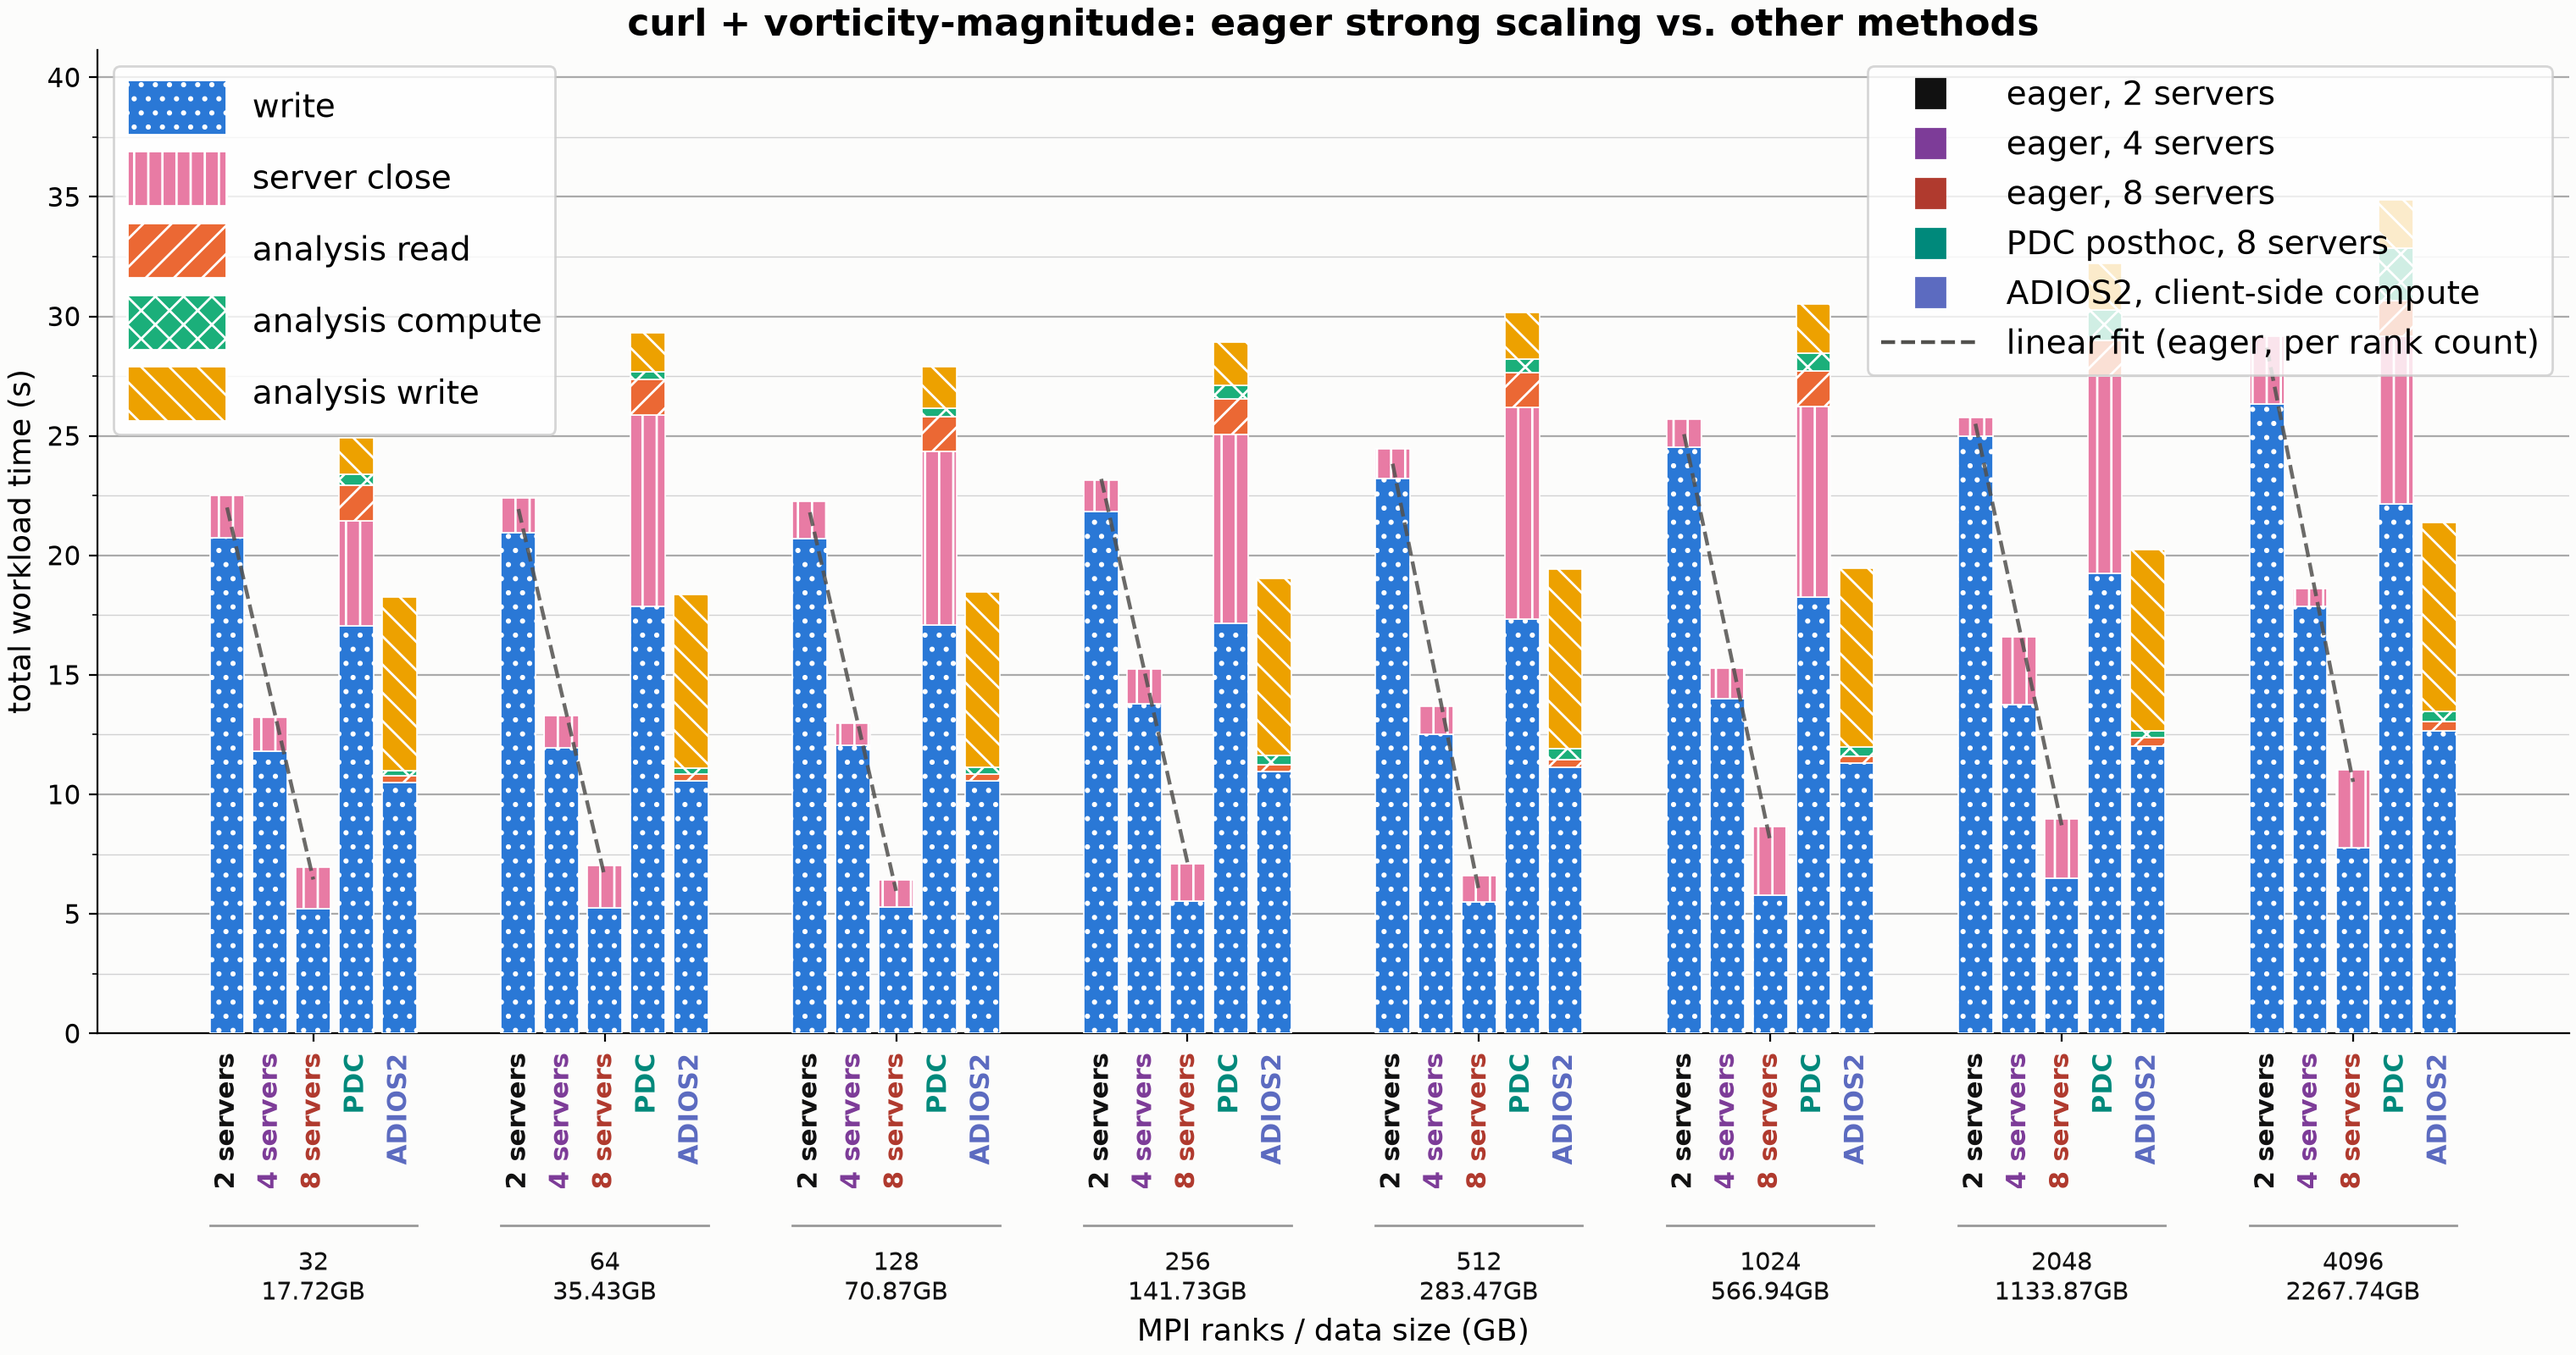
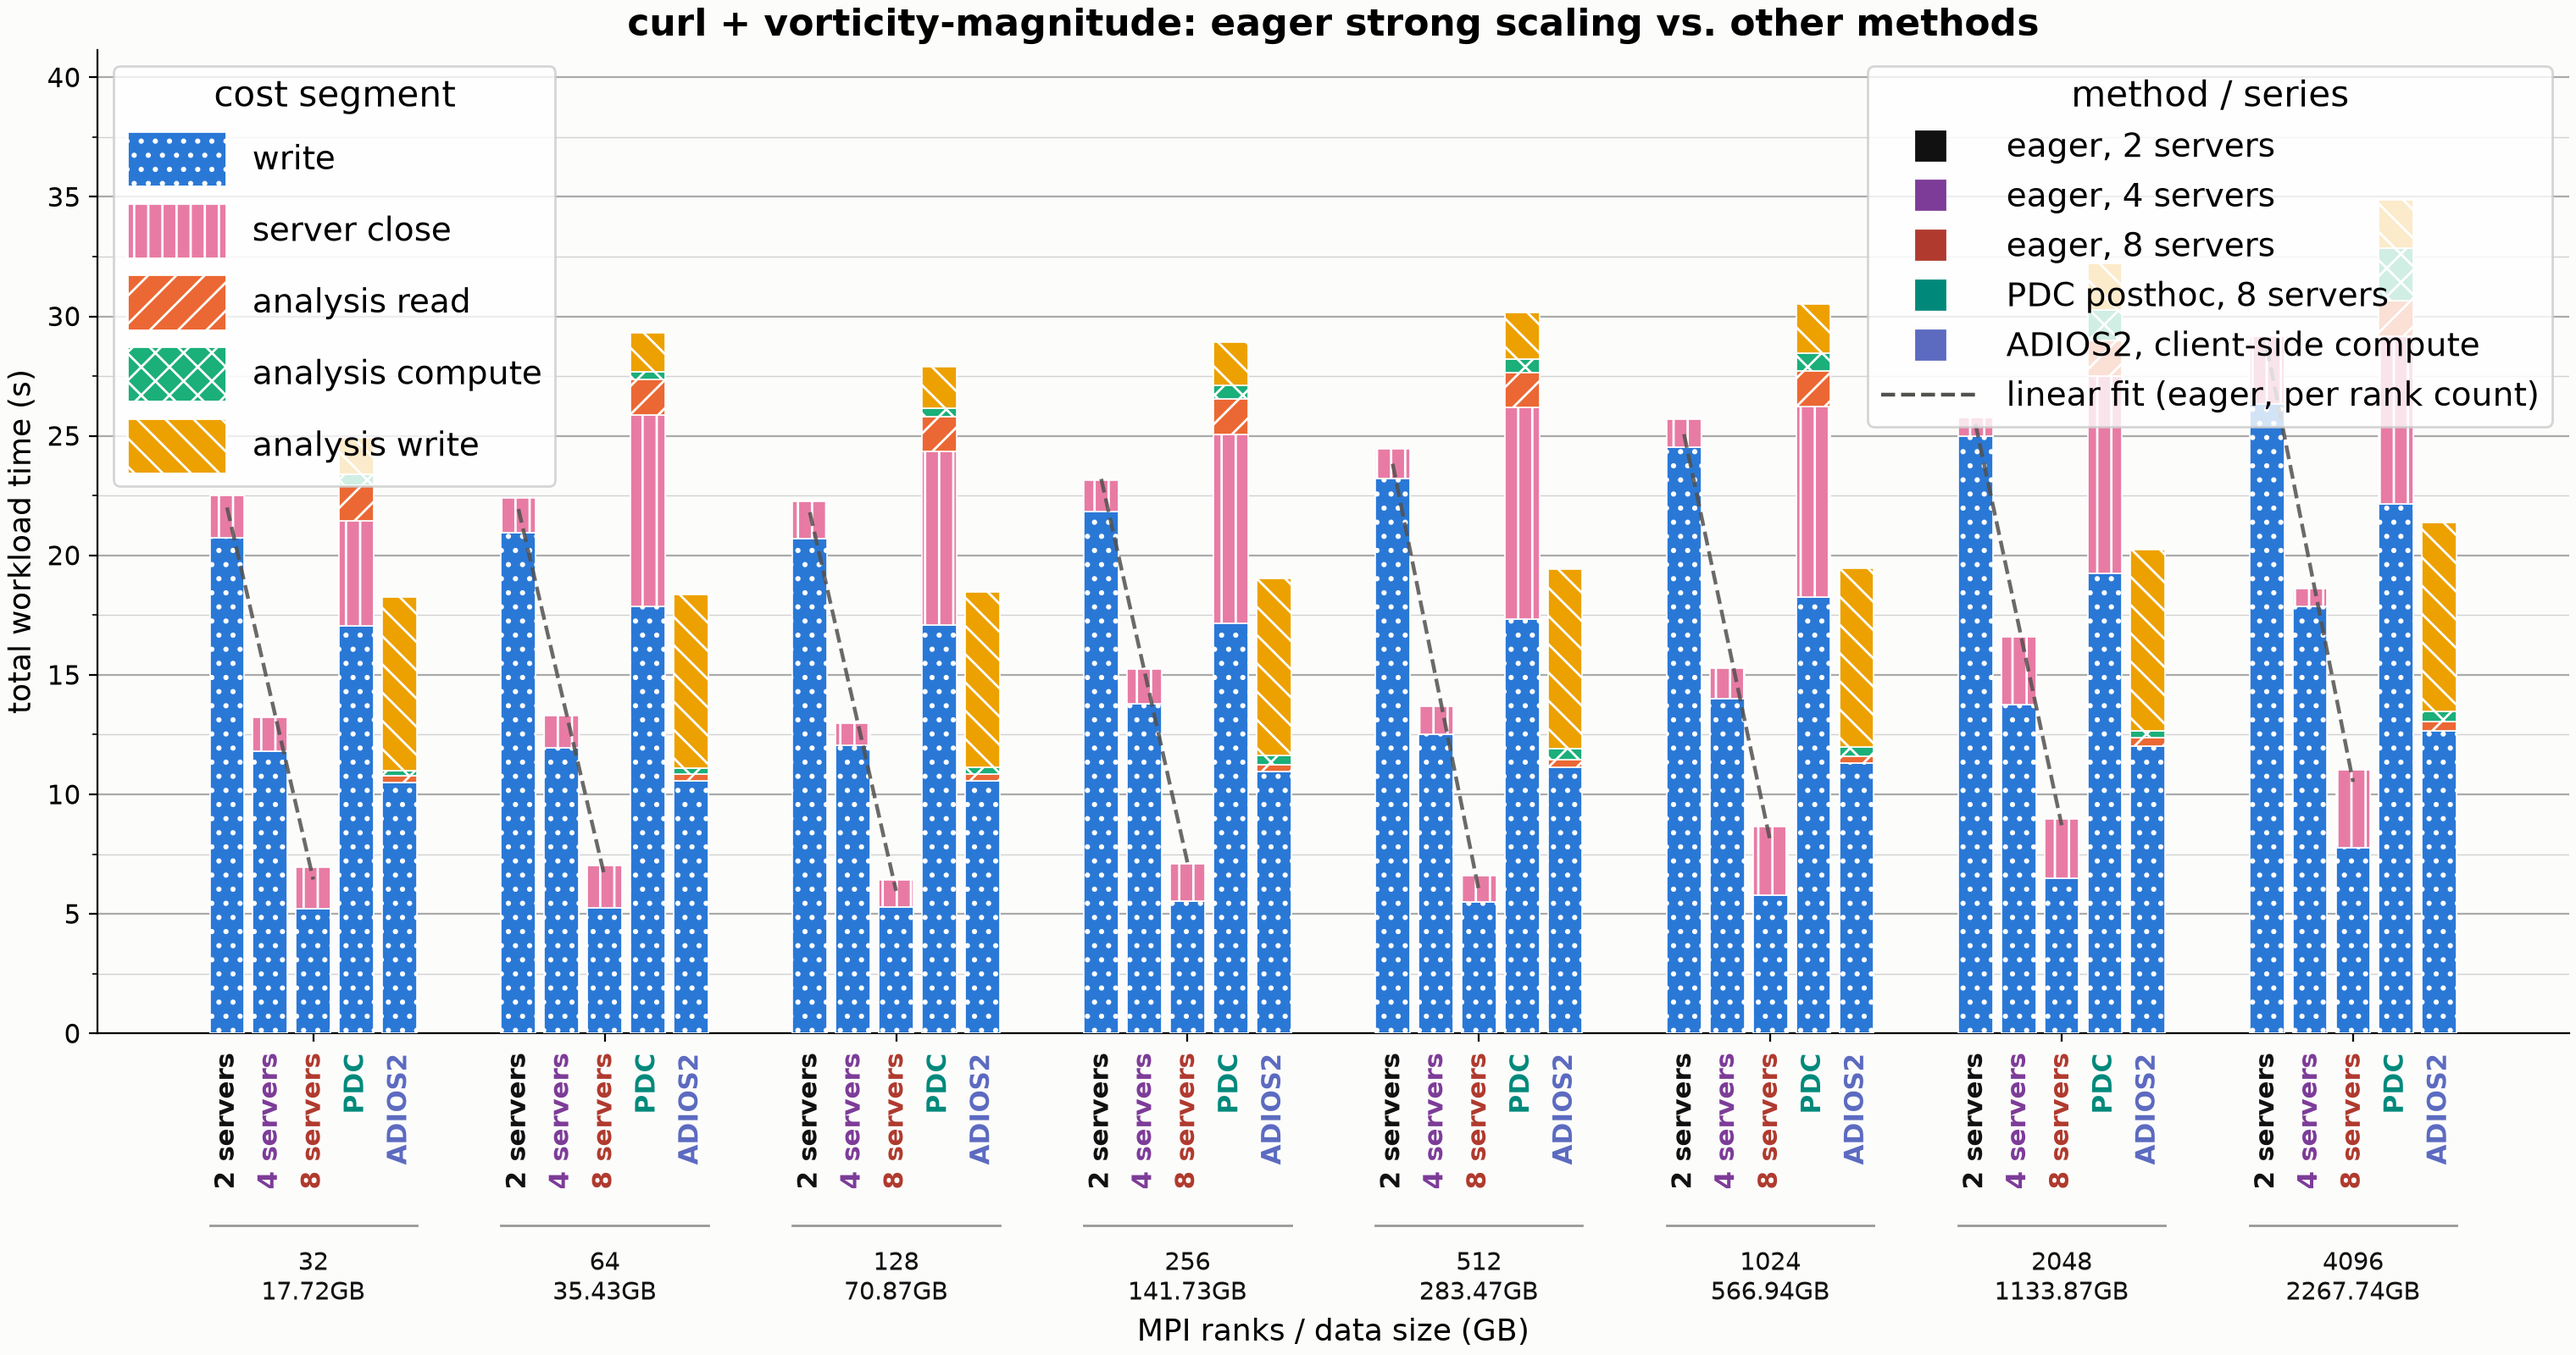
Restore legend titles, remove (N servers/node) chart-title suffix instead
Previous commit misread "remove the title" as the legend title -- that
wasn't what was meant. Restored "cost segment" / "method / series" on
all three scripts' legends. The actual ask was the --server-count
chart-title suffix (e.g. "(8 servers/node)"), now dropped -- every
magnitude_comparison*.png shares the same plain title regardless of
which server count it's filtered to.

Claude-Session: https://claude.ai/code/session_018SQY4wo4xQPFn1NkY3KKc6

Changed region(s): [[0.7188, 0.0625, 1.0, 0.3125], [0.0312, 0.0625, 0.2188, 0.375]]

diff --git a/pdc_helper_scripts/plots/plot_magnitude_comparison.py b/pdc_helper_scripts/plots/plot_magnitude_comparison.py
@@ -633,10 +633,7 @@ def main():
     ax.set_xticklabels([rank_gb_label(n) for n in all_ranks])
     ax.set_xlabel("MPI ranks / data size (GB)", fontsize=13)
     ax.set_ylabel("total workload time (s)", fontsize=13)
-    title = "magnitude analysis: workload comparison"
-    if args.server_count is not None:
-        title += f" ({args.server_count} servers/node)"
-    ax.set_title(title, fontsize=16, fontweight="bold")
+    ax.set_title("magnitude analysis: workload comparison", fontsize=16, fontweight="bold")
     ax.tick_params(axis="y", labelsize=11)
     ax.yaxis.set_minor_locator(AutoMinorLocator(2))
     ax.yaxis.grid(True, which="major", linestyle="-", linewidth=0.8, color="#888888", alpha=0.7, zorder=0)
@@ -682,7 +679,7 @@ def main():
     ]
     seg_handles = [mpatches.Patch(facecolor=SEGMENT_COLOR[s], hatch=SEGMENT_HATCH[s], edgecolor="white") for s in seg_keys]
     seg_labels = [SEGMENT_LABEL[s] for s in seg_keys]
-    leg1 = ax.legend(seg_handles, seg_labels, loc="upper left", fontsize=14, handlelength=3, handleheight=2.2)
+    leg1 = ax.legend(seg_handles, seg_labels, title="cost segment", loc="upper left", fontsize=14, title_fontsize=15, handlelength=3, handleheight=2.2)
     ax.add_artist(leg1)
 
     if trend_label_used:

diff --git a/pdc_helper_scripts/plots/plot_curl_comparison.py b/pdc_helper_scripts/plots/plot_curl_comparison.py
@@ -523,7 +523,7 @@ def main():
     ]
     seg_handles = [mpatches.Patch(facecolor=SEGMENT_COLOR[s], hatch=SEGMENT_HATCH[s], edgecolor="white") for s in seg_keys]
     seg_labels = [SEGMENT_LABEL[s] for s in seg_keys]
-    leg1 = ax.legend(seg_handles, seg_labels, loc="upper left", fontsize=14, handlelength=3, handleheight=2.2)
+    leg1 = ax.legend(seg_handles, seg_labels, title="cost segment", loc="upper left", fontsize=14, title_fontsize=15, handlelength=3, handleheight=2.2)
     ax.add_artist(leg1)
 
     series_handles = [
@@ -535,7 +535,7 @@ def main():
     trend_handle = plt.Line2D([0], [0], linestyle="--", linewidth=1.6, color=TREND_COLOR)
     ax.legend(
         series_handles + [trend_handle], series_labels + ["linear fit (eager, per rank count)"],
-        loc="upper right", fontsize=14, handlelength=3,
+        title="method / series", loc="upper right", fontsize=14, title_fontsize=15, handlelength=3,
     )
 
     y_max = max((sum(segs.values()) for k in series for segs, _ in per_series[k].values()), default=1.0)

diff --git a/pdc_helper_scripts/plots/plot_vpicio_comparison.py b/pdc_helper_scripts/plots/plot_vpicio_comparison.py
@@ -503,7 +503,7 @@ def main():
     seg_keys = [s for s in SEGMENT_ORDER if any(per_series[k].get(n, {}).get(s, 0.0) > 0 for k in series for n in all_ranks)]
     seg_handles = [mpatches.Patch(facecolor=SEGMENT_COLOR[s], hatch=SEGMENT_HATCH[s], edgecolor="white") for s in seg_keys]
     seg_labels = [SEGMENT_LABEL[s] for s in seg_keys]
-    leg1 = ax.legend(seg_handles, seg_labels, loc="upper left", fontsize=14, handlelength=3, handleheight=2.2)
+    leg1 = ax.legend(seg_handles, seg_labels, title="cost segment", loc="upper left", fontsize=14, title_fontsize=15, handlelength=3, handleheight=2.2)
     ax.add_artist(leg1)
 
     if trend_label_used:
